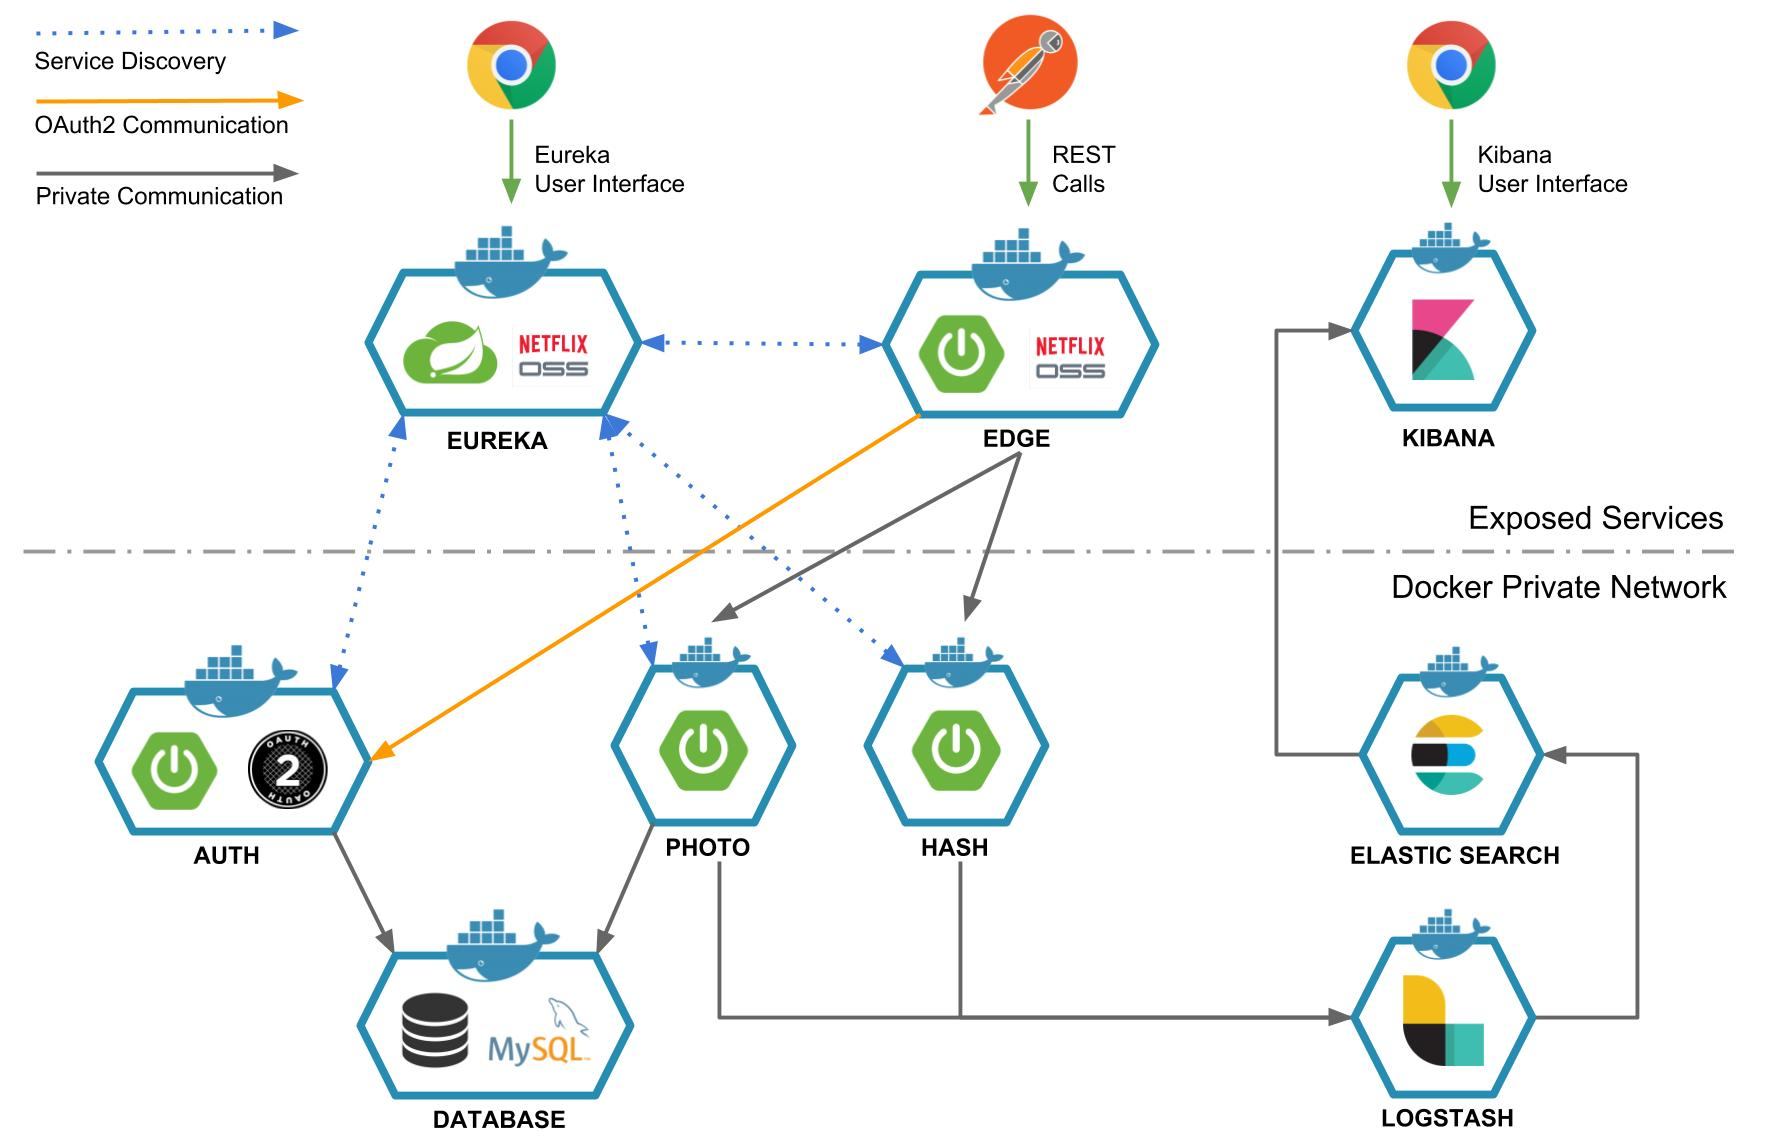
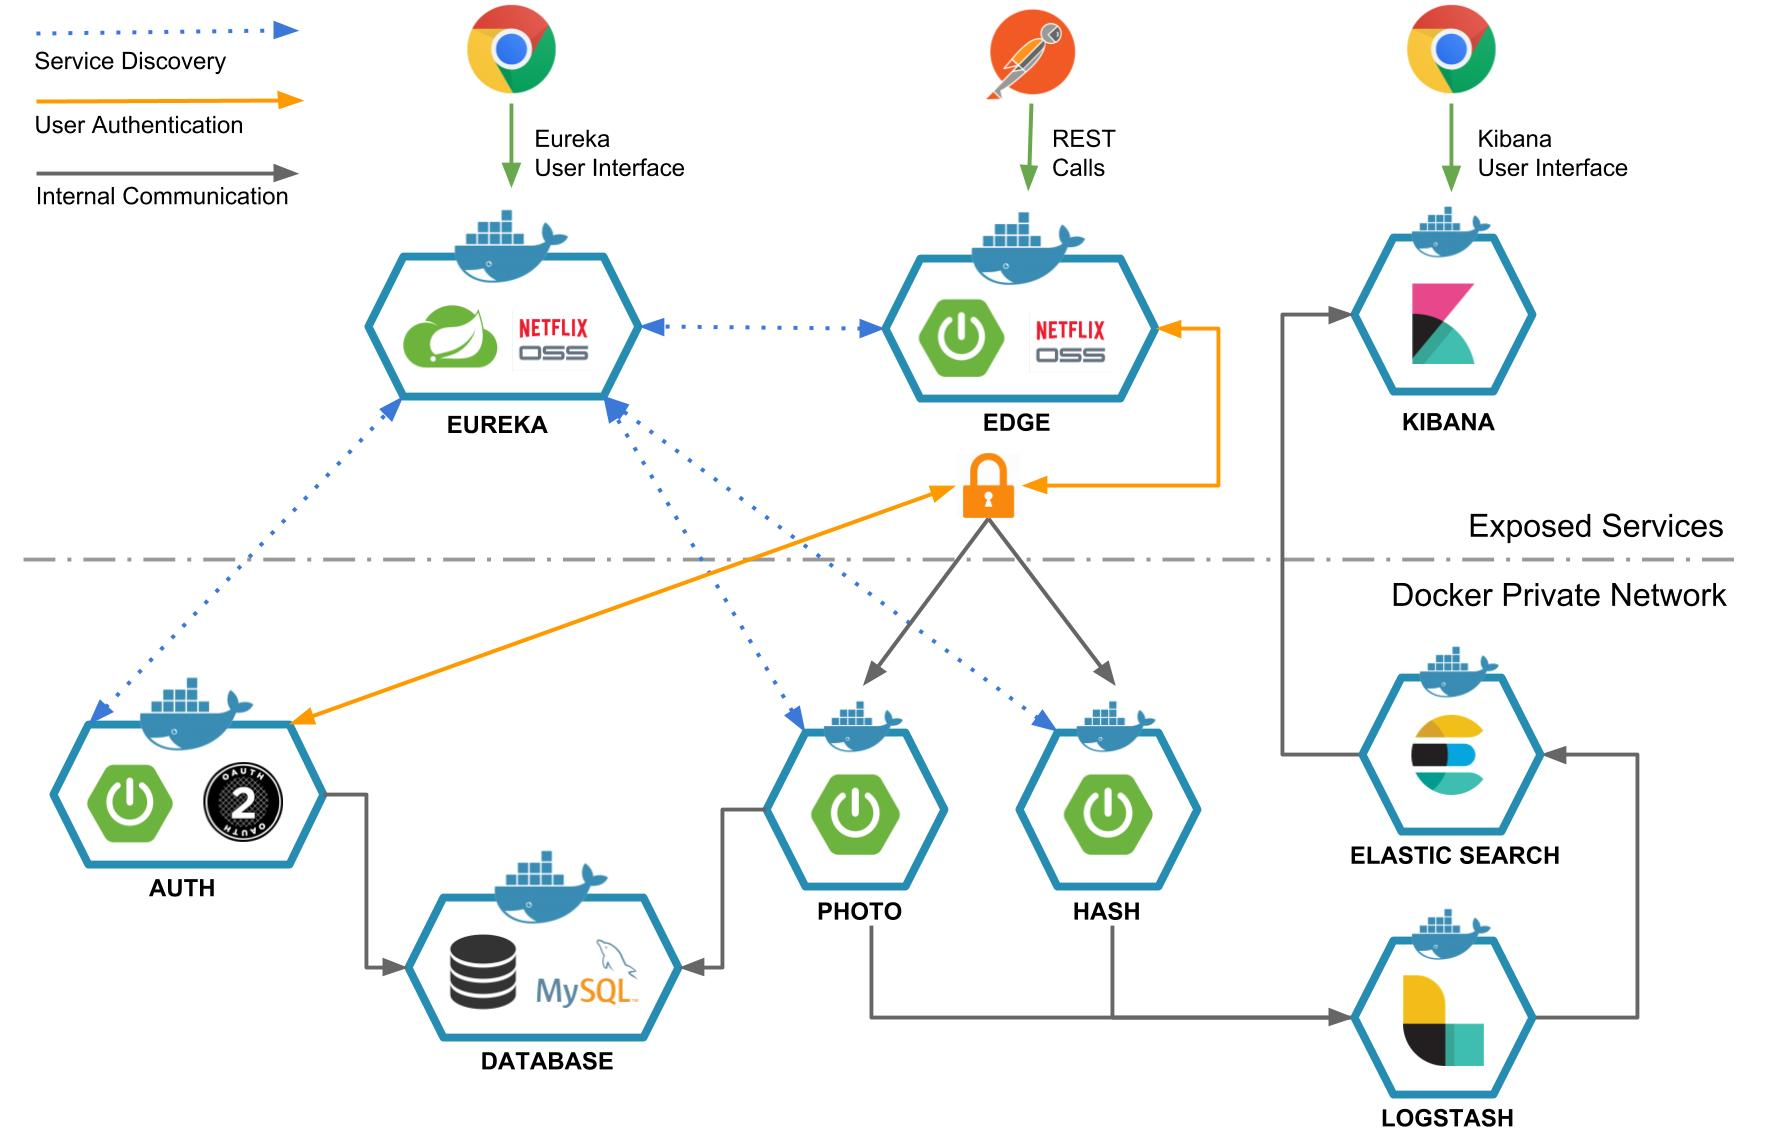
docs

diff --git a/README.md b/README.md
@@ -11,12 +11,20 @@ Proof of Concept of a Microservices Architecture.
 Learn how to run the architecture inside docker containers, call API, configure services and develop single parts independently.
 
 * Architecture Components
+    * Database
+        * [Docker MySql](/)
+        * [Flyway Migrations](/)
     * Infrastructure
         * [Eureka Service](/)
         * [Edge Service](/)
         * [Auth Service](/)
     * Microservices
         * [Hash Service](/)
+    * ELK Stack
+        * [Elastic Search](/)
+        * [Logstash](/)
+        * [Kibana](/)
+
 * [API Usage](docs/api/README.md)
 * [Run with Docker Compose](docs/docker-compose/README.md)
 * [Development](docs/development/README.md)
